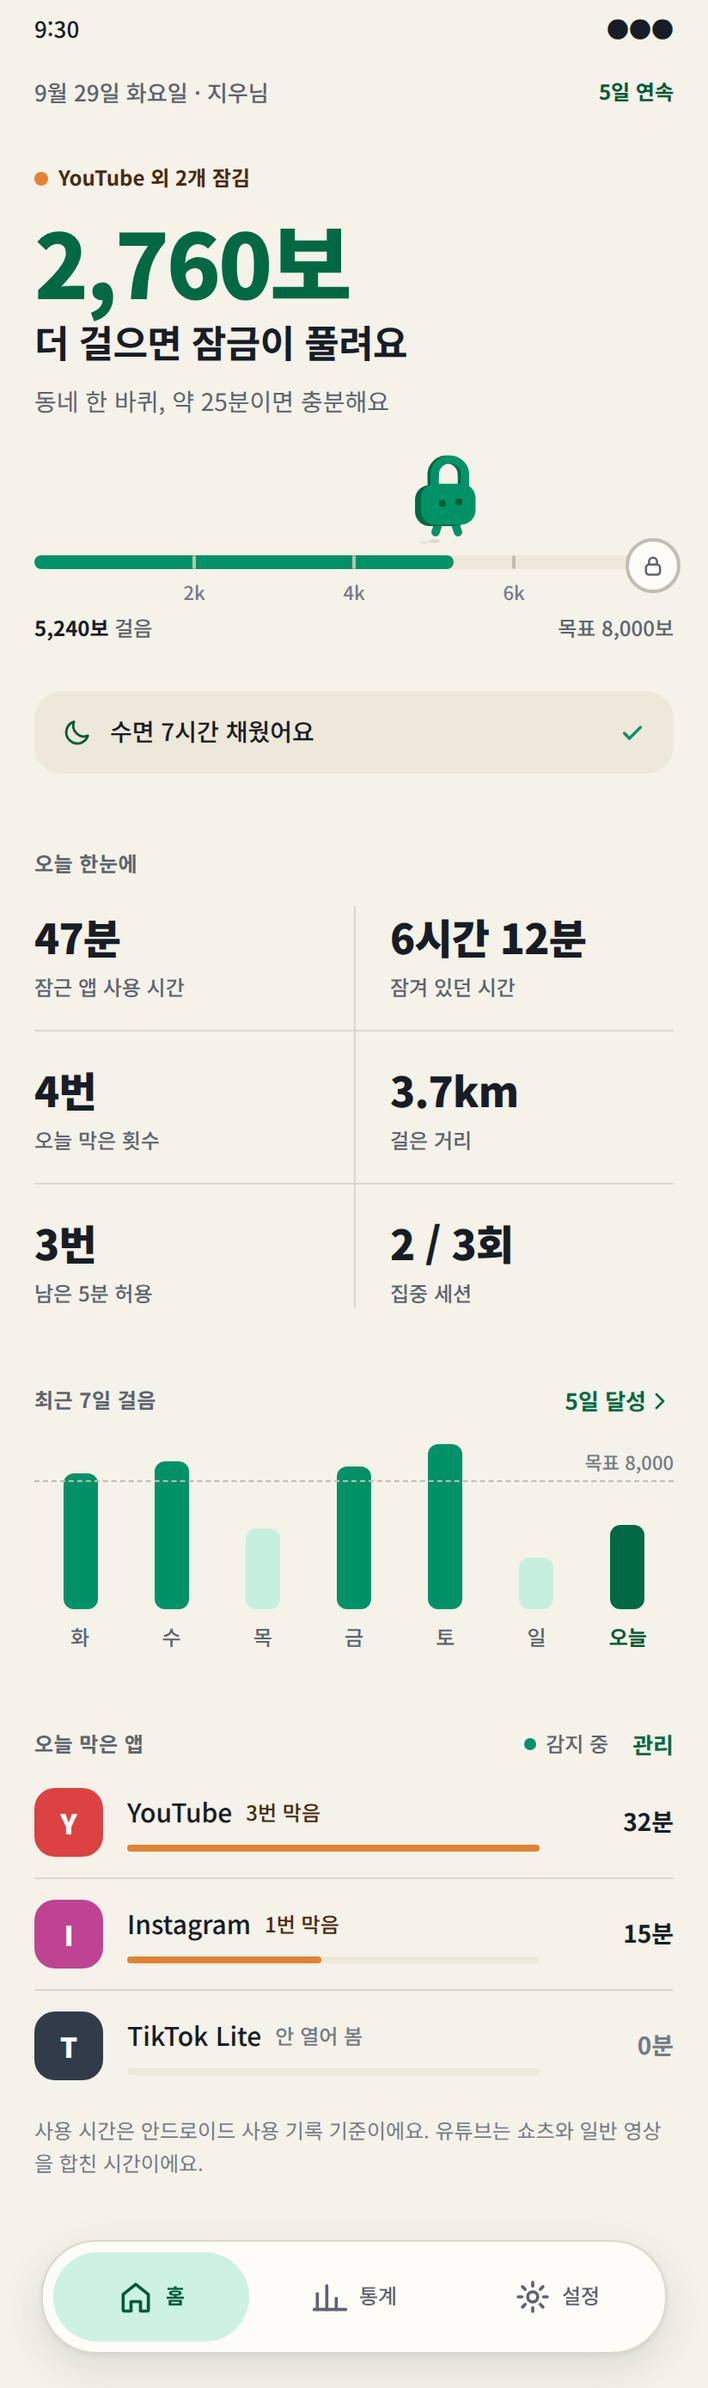
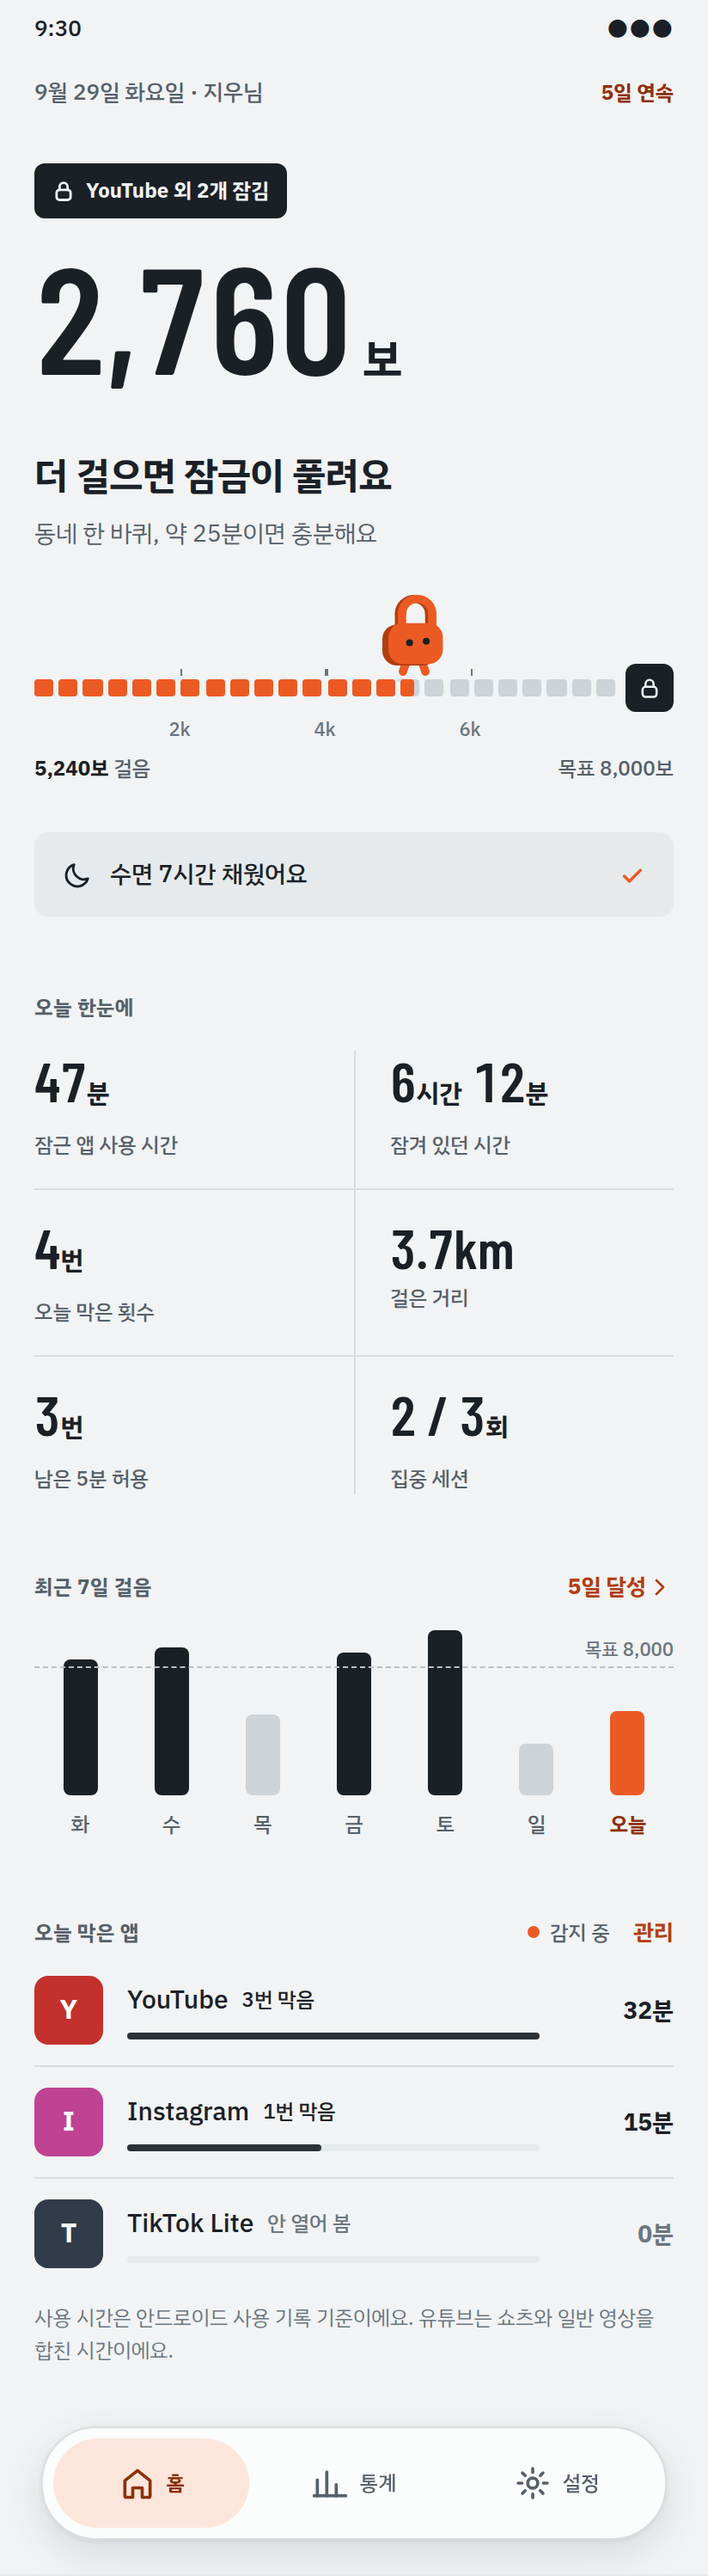
디자인 전환 마무리: 켜짐은 흑연, 오늘만 주황 / 사진·문서
- 스위치·체크박스·조건 타일 켜짐을 흑연으로(주황은 가야 할 길에만)
- 7일 막대·통계 걸음 막대: 지난날 흑연, 오늘만 주황
- README·DESIGN 색·글꼴·모서리 절을 새 체계로 다시 씀
- 화면 사진 전부 새 팔레트·글꼴로 다시 찍음, 앱 아이콘 PNG 주황으로

Claude-Session: https://claude.ai/code/session_01TfDVSB28YoT3k36WsBEoLF

diff --git a/app/src/main/java/com/steplock/app/ui/components/Common.kt b/app/src/main/java/com/steplock/app/ui/components/Common.kt
@@ -297,7 +297,9 @@ fun SlSwitch(
             modifier = Modifier
                 .size(width = SlDimen.SwitchWidth, height = SlDimen.SwitchHeight)
                 .clip(CircleShape)
-                .background(if (checked) SlColor.Brand else SlColor.TrackOff)
+                // 켜짐은 흑연 — 주황은 "가야 할 길"(진행·주요 버튼)에만 씁니다. 스위치마다
+                // 주황이면 설정 화면이 경고판처럼 시끄러워집니다.
+                .background(if (checked) SlColor.TextPrimary else SlColor.TrackOff)
                 .padding(3.dp),
             contentAlignment = Alignment.CenterStart,
         ) {
@@ -334,15 +336,15 @@ fun CheckboxMark(
         modifier = modifier
             .size(size)
             .clip(shape)
-            .background(if (checked) SlColor.Brand else Color.Transparent)
-            .border(borderWidth, if (checked) SlColor.Brand else SlColor.BorderStrong, shape),
+            .background(if (checked) SlColor.TextPrimary else Color.Transparent)
+            .border(borderWidth, if (checked) SlColor.TextPrimary else SlColor.BorderStrong, shape),
         contentAlignment = Alignment.Center,
     ) {
         if (checked) {
             Icon(
                 imageVector = checkIcon,
                 contentDescription = null,
-                tint = SlColor.OnBrand,
+                tint = SlColor.Background,
                 modifier = Modifier.size(checkSize),
             )
         }

diff --git a/app/src/main/java/com/steplock/app/ui/screens/HomeScreen.kt b/app/src/main/java/com/steplock/app/ui/screens/HomeScreen.kt
@@ -721,9 +721,10 @@ private fun GlanceGrid(figures: List<Pair<String, String>>) {
 @Composable
 private fun WeekBars(days: List<DailyStat>, settings: LockSettings, onClick: () -> Unit) {
     val todayLabel = stringResource(R.string.home_week_today)
-    val done = SlColor.Brand
-    val notYet = SlColor.BrandTint
-    val today = SlColor.BrandInk
+    // 채운 날은 흑연, 못 채운 날은 흐린 회색, 오늘만 표식 주황 — "지금 여기"를 가리킵니다.
+    val done = SlColor.TextPrimary
+    val notYet = SlColor.TrackOff
+    val today = SlColor.Brand
     val description = stringResource(
         R.string.home_week_bars_desc,
         days.count { it.steps >= settings.stepGoal },

diff --git a/app/src/main/java/com/steplock/app/ui/components/ConditionSettingRow.kt b/app/src/main/java/com/steplock/app/ui/components/ConditionSettingRow.kt
@@ -58,8 +58,8 @@ fun ConditionSettingRow(
                 icon = icon,
                 // 꺼진 조건은 아이콘도 한 단계 가라앉힙니다 — 스위치만 보고
                 // 판단하지 않아도 무엇이 켜져 있는지 훑어 읽힙니다.
-                tint = if (enabled) SlColor.BrandDeep else SlColor.TextTertiary,
-                background = if (enabled) SlColor.BrandTintAlt else SlColor.SurfaceAlt,
+                tint = if (enabled) SlColor.TextPrimary else SlColor.TextTertiary,
+                background = SlColor.SurfaceAlt,
                 size = 40.dp,
                 shape = RoundedCornerShape(SlDimen.RadiusBadge),
                 iconSize = 20.dp,

diff --git a/app/src/main/java/com/steplock/app/ui/screens/StatsScreen.kt b/app/src/main/java/com/steplock/app/ui/screens/StatsScreen.kt
@@ -225,9 +225,13 @@ private fun StepsPanel(days: List<DailyStat>, goal: Int) {
             color = SlColor.TextPrimary,
         )
         Spacer(Modifier.height(16.dp))
+        val todayColor = SlColor.Brand
+        val dayColor = SlColor.TextPrimary
         WeeklyBarChart(
             values = days.map { it.steps },
             goal = goal,
+            // 오늘만 주황, 지난날은 흑연 — 홈의 7일 막대와 같은 규칙입니다.
+            barColorAt = { index, _ -> if (index == days.lastIndex) todayColor else dayColor },
             modifier = Modifier
                 .fillMaxWidth()
                 .height(140.dp),
